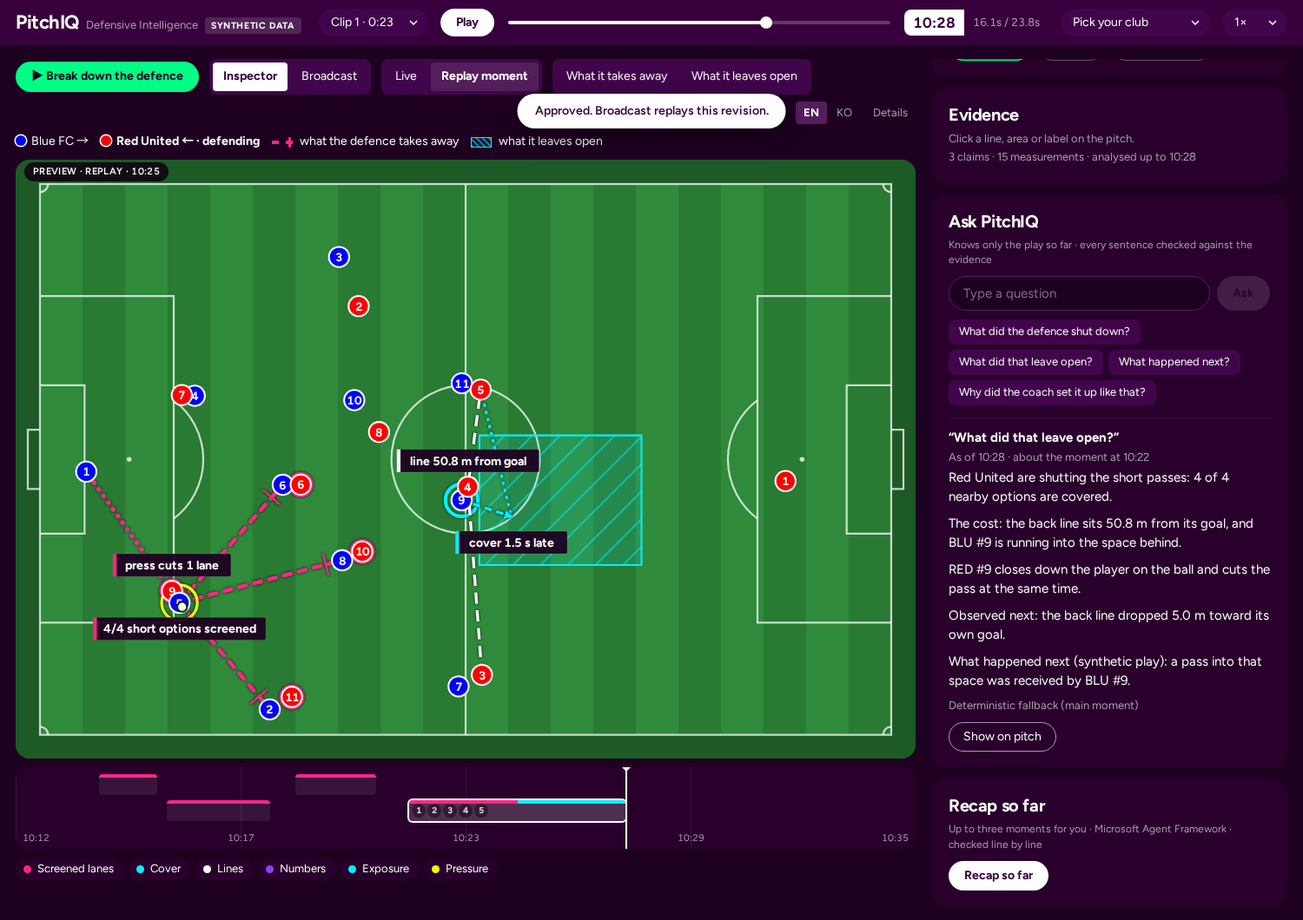
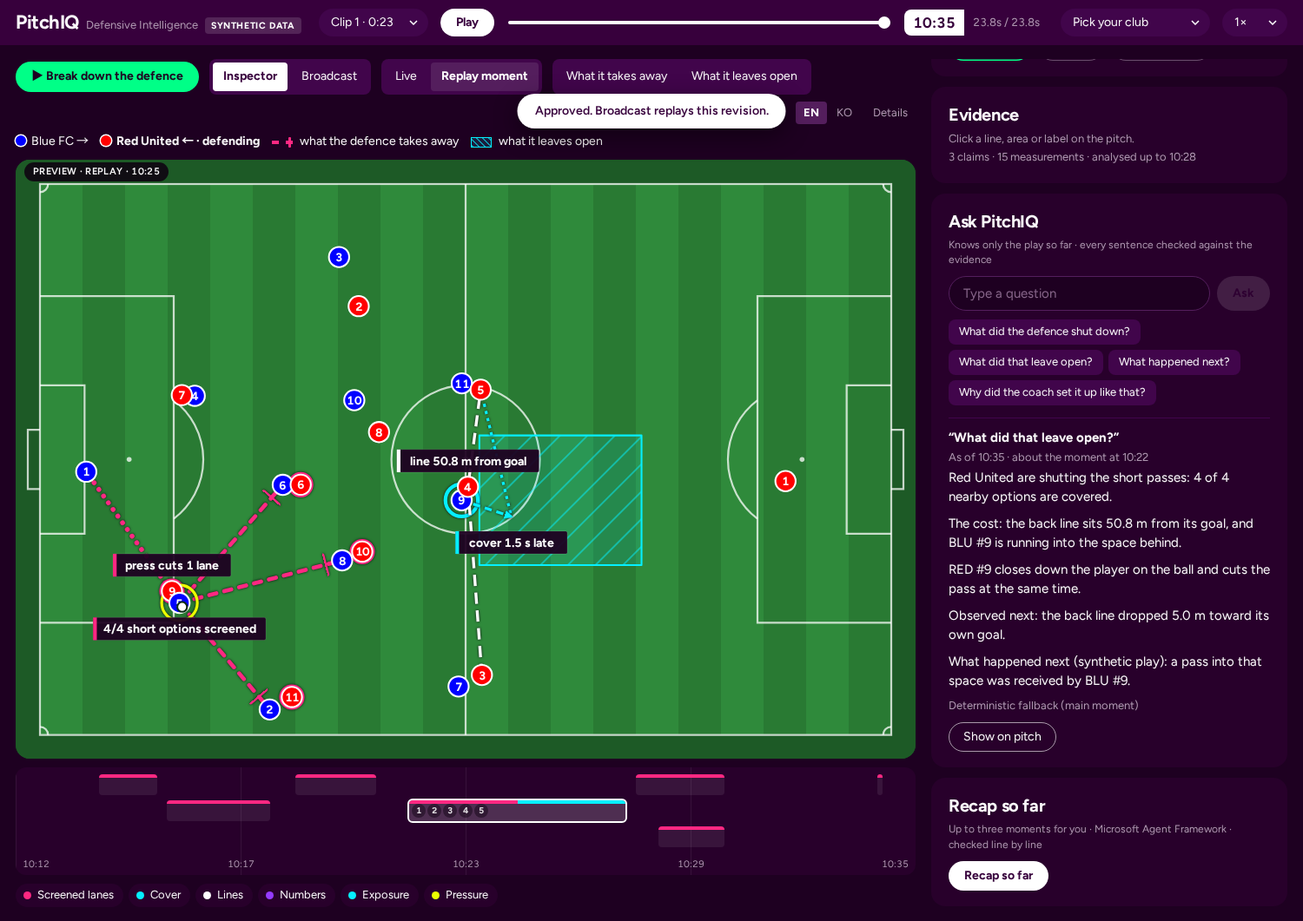
Play, Pause and the seek bar behave like a video player on the live link
Found by trying the deployed app: on the live link a seek's reply takes
0.3-1.2 s while the analysis is rebuilt.
- The seek bar stays where it is let go until the seek is answered; frames
  still streaming in no longer pull it back to the playing position.
- Pause freezes the pitch on the paused frame, and a seek shows the frame at
  that time. The followed moment's replay is shown only when the clip ends.
- The client keeps the newest snapshot by (epoch, seq), so a late older one
  cannot flip the Play/Pause label; old-epoch frames are dropped.
- Frame, episode, evidence and overlay reads wait for a seek's rebuild under
  the session lock instead of answering 404 from a half-built analysis.

Tests 278 (seek lock, snapshot order); walkthrough 74/74 with Pause and
seek-bar checks.

diff --git a/frontend/src/App.tsx b/frontend/src/App.tsx
@@ -42,6 +42,7 @@ const OUTCOME_TEXT: Record<string, string> = {
 };
 
 const fmtClock = (t: number, t0: number) => `${(t - t0).toFixed(1)}s`;
+const SEEK_KEYS = new Set(["ArrowLeft", "ArrowRight", "ArrowUp", "ArrowDown", "PageUp", "PageDown", "Home", "End"]);
 const FAN_QUIET = new Set(["numbers"]);  // fans get the lines and areas, not the analyst's count tags
 const matchClock = (t: number) => `${Math.floor(t / 60)}:${String(Math.floor(t % 60)).padStart(2, "0")}`;
 const matchClockTenths = (t: number) => `${Math.floor(t / 60)}:${(t % 60).toFixed(1).padStart(4, "0")}`;
@@ -146,6 +147,8 @@ export function App() {
   const [selEl, setSelEl] = useState<OverlayElement | null>(null);
   const [hidden, setHidden] = useState<Set<string>>(new Set());
   const [userPicked, setUserPicked] = useState(false);
+  const [scrub, setScrub] = useState<number | null>(null);  // where the viewer holds the seek bar, until the seek is answered
+  const lastSnap = useRef<[number, number]>([0, -1]);  // (epoch, seq) of the newest snapshot applied
   const [bd, setBd] = useState<Breakdown | null>(null);  // the guided breakdown on screen, if any
   const [bdStep, setBdStep] = useState(0);
   const [bdBusy, setBdBusy] = useState(false);
@@ -173,6 +176,11 @@ export function App() {
 
   const applySnapshot = useCallback((s: any) => {
     if (s.replay_id !== currentReplay.current) return;  // a response for a session we already left
+    // a control reply and the socket's snapshots can arrive in either order: keep the newest (epoch, seq), so a late
+    // older one never turns Pause back into Play or moves the clock back
+    const [e, q] = lastSnap.current;
+    if (s.analysis_epoch < e || (s.analysis_epoch === e && s.seq < q)) return;
+    lastSnap.current = [s.analysis_epoch, s.seq];
     setEpoch(s.analysis_epoch); setClock(s.clock_s); setPlaying(s.playing); setSpeed(s.speed);
     setRange([s.clip_start_s, s.clip_end_s]); setFrame(s.frame); setState(s.state); setLiveClaims(s.live_claims);
     setEpisodes(s.episodes);
@@ -193,6 +201,7 @@ export function App() {
     setBd(null); setBdStep(0); setIntro(true);
     setUserPicked(false); setView("live"); setAutoReplay(false); setFollowed(null); setOnlyFollowed(false); setSurface("inspector_preview"); setEpisodes([]); setSession(null);
     currentReplay.current = null;  // drop anything the previous session's socket still delivers
+    lastSnap.current = [0, -1]; setScrub(null);
     const connect = (s: Session) => {
       wsRef.current?.close();
       wsRef.current = openSocket(s, (m: WsMessage) => { retry = 0; onMessage(m); }, (ev) => {
@@ -237,6 +246,7 @@ export function App() {
   const onMessage = (m: WsMessage & { replay_id?: string }) => {
     if (m.replay_id && m.replay_id !== currentReplay.current) return;  // a late message from a previous session
     if (m.type === "state_snapshot") { applySnapshot(m.payload); return; }
+    if ((m.type === "tracking_frame" || m.type === "tactical_snapshot") && m.analysis_epoch < lastSnap.current[0]) return;
     if (m.type === "tracking_frame") {
       const f = ObservationFrameZ.safeParse(m.payload);
       if (!f.success) { setError("tracking frame failed contract validation"); return; }
@@ -337,6 +347,13 @@ export function App() {
       else setError(String(e));
     }
   };
+  // a seek from the bar: the pitch then shows the frame at that time (not the last moment's replay) until the next Play
+  const seekTo = async (t: number) => {
+    setIntro(false); exitBreakdown();
+    liveChosen.current = true; setView("live"); setSelRev(null); setAutoReplay(false);
+    await control("seek", t);
+    setScrub(null);
+  };
   const replayFromStart = async () => {
     if (!session || session.replay_id !== currentReplay.current) return;
     // back to the live desk, with no moments listed or selected, before the seek leaves: the rewound replay has not
@@ -426,11 +443,12 @@ export function App() {
   const liveExpired = overlay?.overlay.display_mode === "live" && view === "live" && surface === "inspector_preview"
     && clock > overlay.overlay.valid_until_s + 1e-6;
   const overlaySnap = liveExpired ? null : overlay?.overlay ?? null;
-  // a paused or finished replay never leaves an empty pitch: it shows the followed moment as analysed (Play returns
-  // to live). While playing, an expired live overlay is still not drawn on later frames.
+  // a finished replay never leaves an empty pitch: at the end of the clip it shows the followed moment as analysed
+  // (Play starts the clip again). Pause keeps the pitch on the paused frame, as any video player does. While playing,
+  // an expired live overlay is still not drawn on later frames.
   useEffect(() => {
     const ended = clock >= range[1] - 0.1;
-    if (playing && !ended) { liveChosen.current = false; return; }
+    if (!ended) { if (playing) liveChosen.current = false; return; }
     if (view !== "live" || surface !== "inspector_preview" || !liveExpired || liveChosen.current) return;
     setView("replay"); setSelRev(null); setAutoReplay(true);
   }, [playing, view, surface, liveExpired, clock, range]);
@@ -469,6 +487,7 @@ export function App() {
     ? (overlay?.episode_revision === selRev ? overlay.analyzed_through_s : null)
     : (ep && insight && insight.insight.evidence_hash === ep.evidence_hash ? ep.analyzed_until_s : null);
   const [t0, t1] = range;
+  const shownClock = scrub ?? clock;
   const lastCloud = health?.last_cloud_result;
   const statusLine = health ? (health.cloud_enabled
     ? `Narration: Foundry enabled · last call ${lastCloud?.last_call_succeeded == null ? "none yet"
@@ -505,12 +524,15 @@ export function App() {
           if (!playing && clock >= range[1] - 0.1) replayFromStart();  // at the end, Play starts the clip again
           else control(playing ? "pause" : "play");
         }}>{playing ? "Pause" : "Play"}</button>
-        <input type="range" min={t0} max={t1} step={0.2} value={clock} aria-label="Seek" disabled={!session}
-          style={{ "--p": `${((clock - t0) / Math.max(t1 - t0, 1e-6)) * 100}%` } as CSSProperties}
-          onChange={(e) => setClock(parseFloat(e.target.value))}
-          onMouseUp={(e) => { setIntro(false); exitBreakdown(); control("seek", parseFloat((e.target as HTMLInputElement).value)); }}
-          onKeyUp={(e) => { setIntro(false); exitBreakdown(); control("seek", parseFloat((e.target as HTMLInputElement).value)); }} />
-        <span className="clock" title="match clock · time into the clip"><b>{matchClock(clock)}</b><span>{fmtClock(clock, t0)} / {fmtClock(t1, t0)}{details ? ` · epoch ${epoch}` : ""}</span></span>
+        {/* the bar stays where the viewer put it until the seek is answered: frames still streaming in would
+            otherwise pull it back to the playing position */}
+        <input type="range" min={t0} max={t1} step={0.2} value={shownClock} aria-label="Seek" disabled={!session}
+          style={{ "--p": `${((shownClock - t0) / Math.max(t1 - t0, 1e-6)) * 100}%` } as CSSProperties}
+          onChange={(e) => setScrub(parseFloat(e.target.value))}
+          onPointerUp={(e) => seekTo(parseFloat((e.target as HTMLInputElement).value))}
+          onPointerCancel={() => setScrub(null)}
+          onKeyUp={(e) => { if (SEEK_KEYS.has(e.key)) seekTo(parseFloat((e.target as HTMLInputElement).value)); }} />
+        <span className="clock" title="match clock · time into the clip"><b>{matchClock(shownClock)}</b><span>{fmtClock(shownClock, t0)} / {fmtClock(t1, t0)}{details ? ` · epoch ${epoch}` : ""}</span></span>
         <select value={myClub} onChange={(e) => setMyClub(e.target.value)} aria-label="My club">
           <option value="">Pick your club</option>
           {teams.map((tm: any) => <option key={tm.team_id} value={tm.team_id}>My club: {tm.display_name}</option>)}

diff --git a/backend/app/api/app.py b/backend/app/api/app.py
@@ -108,6 +108,13 @@ def _episodes(s: ReplaySession) -> list[dict]:
 
 
 def _snapshot(s: ReplaySession) -> dict:
+    # under the session lock, so (epoch, seq) orders snapshots the way the state changed: a client that gets the
+    # control reply and the socket's snapshot in either order keeps the newer one
+    with s.lock:
+        return _snapshot_locked(s)
+
+
+def _snapshot_locked(s: ReplaySession) -> dict:
     r = s.results[-1]
     return {"schema_version": "2.0", "replay_id": s.replay_id, "clip_id": s.clip.clip_id,
             "analysis_epoch": s.epoch, "seq": s.next_seq(), "clock_s": s.clock_s, "playing": s.playing,
@@ -252,22 +259,25 @@ def snapshot(rid: str, x_session_token: str | None = Header(default=None)) -> di
 @app.get("/api/replays/{rid}/frames/{frame_index}")
 def frame(rid: str, frame_index: int, x_session_token: str | None = Header(default=None)) -> dict:
     s = _session(rid, x_session_token)
-    if frame_index < 0 or frame_index > s.cursor_k:
-        raise HTTPException(404, "frame not observed yet at this cutoff")
-    return s.clip.frames[frame_index].model_dump(mode="json")
+    with s.lock:  # a seek rebuilds the analysis under this lock: wait for it instead of reading it half rebuilt
+        if frame_index < 0 or frame_index > s.cursor_k:
+            raise HTTPException(404, "frame not observed yet at this cutoff")
+        return s.clip.frames[frame_index].model_dump(mode="json")
 
 
 @app.get("/api/replays/{rid}/episodes")
 def episodes(rid: str, x_session_token: str | None = Header(default=None)) -> list[dict]:
     s = _session(rid, x_session_token)
-    return [p.episode.model_dump(mode="json") for revs in s.analyzer.packets.values() for p in revs[-1:]]
+    with s.lock:
+        return [p.episode.model_dump(mode="json") for revs in s.analyzer.packets.values() for p in revs[-1:]]
 
 
 @app.get("/api/replays/{rid}/evidence/{episode_id}")
 def evidence(rid: str, episode_id: str, revision: int | None = None,
              x_session_token: str | None = Header(default=None)) -> dict:
     s = _session(rid, x_session_token)
-    return _packet(s, episode_id, revision).model_dump(mode="json")
+    with s.lock:
+        return _packet(s, episode_id, revision).model_dump(mode="json")
 
 
 @app.get("/api/replays/{rid}/overlays")
@@ -279,6 +289,12 @@ def overlays(rid: str, episode_id: str, audience: Literal["fan", "analyst"] = "a
              revision: int | None = None,
              x_session_token: str | None = Header(default=None)) -> dict:
     s = _session(rid, x_session_token)
+    with s.lock:  # the whole overlay from one consistent analysis, never from one a seek is rebuilding
+        return _overlay(s, episode_id, audience, language, surface, focus, display_mode, revision)
+
+
+def _overlay(s: ReplaySession, episode_id: str, audience: str, language: str, surface: str, focus: str,
+             display_mode: str, revision: int | None) -> dict:
     pk = _packet(s, episode_id, revision)
     approved = None
     if surface == "broadcast":

diff --git a/evaluation/walkthrough/walkthrough.py b/evaluation/walkthrough/walkthrough.py
@@ -169,14 +169,13 @@ def main() -> int:
             else:
                 check("A live after the episode closed: the clip ended, the moment is shown as a replay",
                       "REPLAY" in badge and page.locator("svg.pitch .ov").count() > 0, badge)
-            if page.get_by_role("button", name="Pause", exact=True).count():
-                page.get_by_role("button", name="Pause", exact=True).click()
+            page.get_by_role("button", name="Play", exact=True).wait_for(timeout=30000)  # the clip has ended
             page.wait_for_function("document.querySelector('.badge')?.textContent.includes('REPLAY')", timeout=10000)
             try:  # the badge comes with the overlay; the replay frame it is drawn on arrives a moment later
                 page.wait_for_function("document.querySelectorAll('svg.pitch .ov').length > 0", timeout=10000)
             except Exception:
                 pass
-            check("paused or ended: the pitch shows the followed moment, not an empty pitch",
+            check("ended: the pitch shows the followed moment, not an empty pitch",
                   page.locator("svg.pitch .ov").count() > 0, page.locator(".badge").inner_text())
 
             page.locator("button", has_text="After (rev").click()
@@ -479,7 +478,26 @@ def main() -> int:
             page.get_by_role("button", name="Pause", exact=True).wait_for(timeout=10000)
             into = page.locator(".clock span").inner_text()
             check("Play at the end of a clip starts it again from the beginning", float(into.split("s")[0]) < 3.0, into)
+            page.wait_for_timeout(1500)
             page.get_by_role("button", name="Pause", exact=True).click()
+            page.get_by_role("button", name="Play", exact=True).wait_for(timeout=10000)
+            page.wait_for_timeout(1500)
+            badge = page.locator(".badge").first.inner_text()
+            check("Pause mid-clip keeps the pitch on the paused frame (no jump to an earlier moment)",
+                  "REPLAY" not in badge, badge)
+            # the seek bar stays where it is let go, and the pitch shows that time
+            bar = page.locator("input[aria-label=Seek]")
+            bb = bar.bounding_box()
+            y = bb["y"] + bb["height"] / 2
+            page.mouse.move(bb["x"] + bb["width"] * 0.2, y)
+            page.mouse.down()
+            page.mouse.move(bb["x"] + bb["width"] * 0.6, y, steps=6)
+            page.mouse.up()
+            page.wait_for_timeout(1500)
+            lo, hi, val = (float(bar.get_attribute("min")), float(bar.get_attribute("max")), float(bar.input_value()))
+            badge = page.locator(".badge").first.inner_text()
+            check("Seek bar: a drag lands where it is let go and the pitch shows that time",
+                  abs((val - lo) / (hi - lo) - 0.6) < 0.06 and "REPLAY" not in badge, f"{val:.1f} | {badge}")
 
             # a public link: switching clips frees the old replay, so 25 switches never fill the store
             for i in range(25):

diff --git a/backend/tests/test_v2_sessions.py b/backend/tests/test_v2_sessions.py
@@ -3,6 +3,7 @@ replays are dropped, and an evicted replay's socket closes with 4410 so the clie
 
 from __future__ import annotations
 
+import threading
 import time
 
 import pytest
@@ -118,6 +119,39 @@ def test_a_seek_to_the_end_while_playing_ends_the_replay_in_its_reply(client):
     snap = client.post(f"/api/replays/{rid}/control", json={"action": "seek", "value": end - 5, "expected_epoch": 3},
                        headers=H).json()
     assert snap["playing"] is True
+
+
+def test_reads_wait_for_a_seek_instead_of_seeing_a_half_rebuilt_analysis(client):
+    # a seek rebuilds the analysis under the session lock (about a second on the deployed replica); a frame, evidence
+    # or overlay request arriving meanwhile must wait for it, not answer 404 from the half-built state
+    rid, H = _create(client)
+    s = STORE.sessions[rid]
+    client.post(f"/api/replays/{rid}/control", json={"action": "seek", "value": s.clip.end_s, "expected_epoch": 1},
+                headers=H)
+    ep = next(iter(s.analyzer.packets))
+    done: dict[str, int] = {}
+    urls = {"frame": f"/api/replays/{rid}/frames/10", "evidence": f"/api/replays/{rid}/evidence/{ep}",
+            "overlay": f"/api/replays/{rid}/overlays?episode_id={ep}"}
+    with s.lock:  # stands in for a seek in progress
+        threads = [threading.Thread(target=lambda k=k, u=u: done.__setitem__(k, client.get(u, headers=H).status_code))
+                   for k, u in urls.items()]
+        for t in threads:
+            t.start()
+        time.sleep(0.5)
+        assert done == {}, "a read went ahead while the analysis was locked"
+    for t in threads:
+        t.join(10)
+    assert done == {"frame": 200, "evidence": 200, "overlay": 200}
+
+
+def test_snapshots_are_ordered_by_epoch_and_seq(client):
+    # the control reply and the socket's snapshots share one counter, so the client can drop the older one
+    rid, H = _create(client)
+    a = client.get(f"/api/replays/{rid}/snapshot", headers=H).json()
+    b = client.post(f"/api/replays/{rid}/control", json={"action": "pause", "expected_epoch": 1}, headers=H).json()
+    c = client.post(f"/api/replays/{rid}/control", json={"action": "seek", "value": a["clip_start_s"] + 3,
+                                                         "expected_epoch": 1}, headers=H).json()
+    assert (a["analysis_epoch"], a["seq"]) < (b["analysis_epoch"], b["seq"]) < (c["analysis_epoch"], c["seq"])
 
 
 def test_playback_keeps_wall_time_when_the_socket_syncs_often(client):

diff --git a/docs/evaluation.md b/docs/evaluation.md
@@ -32,8 +32,8 @@ In D, the variant named `main` is the trap, which is the counter-example.
 - Narration plans: 1510/1510 valid. The holdout runs deterministic narration only, with no model calls.
 
 **Tests and browser walkthrough** (2026-10-25):
-- `make test`: 276 passed on 2026-10-25 (226 before the MCP endpoint, the Recap workflow and personalisation; then the clip-end snapshot and replay clock tests; then the approved-revision broadcast, agent-changes, repeated-recap-lead, fan-caption, prompt-injection and telemetry tests; then the guided breakdown and seek-to-the-end tests).
-- Headless-browser walkthrough in offline mode: 72 passed, 0 failed, no browser console errors (62 before the guided breakdown and the Play-from-the-end checks). Against the public URL (Foundry on, image `sha-b3e6013`, 2026-10-26): 68 passed, 0 failed, no console errors, with the 4 checks of particular template sentences kept as information (58 of 58 on `sha-6c98218` before the breakdown). It includes Ask PitchIQ and Recap checks, the five steps of the guided breakdown, Studio details, My club and Follow a player, and 25 clip switches that leave at most 2 replays open. The offline run's `report.json` and screenshots are in `docs/walkthrough/`; the public-URL run is logged in `docs/foundry_live/MEASUREMENTS.md` (its report was not committed).
+- `make test`: 278 passed on 2026-10-26 (226 before the MCP endpoint, the Recap workflow and personalisation; then the clip-end snapshot and replay clock tests; then the approved-revision broadcast, agent-changes, repeated-recap-lead, fan-caption, prompt-injection and telemetry tests; then the guided breakdown and seek-to-the-end tests; then the seek-lock and snapshot-order tests).
+- Headless-browser walkthrough in offline mode (2026-10-26): 74 passed, 0 failed, no browser console errors (62 before the guided breakdown, the Play-from-the-end, Pause and seek-bar checks). Against the public URL (Foundry on, image `sha-b3e6013`, 2026-10-26): 68 passed, 0 failed, no console errors, with the 4 checks of particular template sentences kept as information (58 of 58 on `sha-6c98218` before the breakdown). It includes Ask PitchIQ and Recap checks, the five steps of the guided breakdown, Studio details, My club and Follow a player, and 25 clip switches that leave at most 2 replays open. The offline run's `report.json` and screenshots are in `docs/walkthrough/`; the public-URL run is logged in `docs/foundry_live/MEASUREMENTS.md` (its report was not committed).
 
 **Live Foundry agents** (2026-10-24) were measured separately, with the smoke runner (`python -m app.agents.smoke`) and in the real UI. The full log is in [`docs/foundry_live/MEASUREMENTS.md`](foundry_live/MEASUREMENTS.md). Costs are estimates from the reported tokens at $0.25 per 1M input and $2.00 per 1M output tokens, not billing records.
 - Analyst → Producer, `gpt-5-mini` with reasoning effort `minimal`: 8/8 validated (1 after a repair) over 7 clips. 4.6–7.7 s end to end, 2.3k–4.4k input and 0.2k–0.3k output tokens, about 0.1–0.2 US cent per run.
@@ -144,7 +144,7 @@ When bypassed pressers drop into the midfield line, the line grouping can abstai
 - Browser walkthrough (headless Chromium on an HPC compute node, 2026-10-22, generator 0.5.0): 49 passed, 0 failed, no console errors.
   - The first run that night timed out once: 17 checks passed, then a 30 s wait for the negative clip's episode, with the node at load 67. The rerun with the same code and data passed 49/49.
   - It covers families A to G and their counter-examples.
-- Browser walkthrough on 2026-10-24: 51/51 before the session-limit changes. During those changes one run had 52/53: a browser console 404 from a replay that had just been freed while a request was still in flight. The client now frees a replay it leaves 3 s later, and the 19:05Z run passed 53/53. Later runs that day added the Studio, personalisation and Recap checks (59/59), then a check over a slow link (60/60): a first run against the deployed app found that over a slow link (the deployed app from the development machine; 400 ms per request in the new check) the client dropped every live overlay answer because a newer request was always in flight, so the live pitch drew nothing. The old build fails the new check. The client now draws each answer newer than the one on screen. The same session also showed the replay clock running about 1.8x fast while a browser was connected (each sync rounded the clock up to the nearest frame); it now advances to the last frame at or before the clock, with a test. On 10-25 the walkthrough against the deployed app found a third slow-link problem: Play pressed right after a clip switch was dropped while the new replay was still being created; the controls now stay disabled until it exists (check 61, which the previous build fails); later that evening the run against the deployed app with the guided breakdown found two more: Play at the end of a clip rewound while requests for the moment it had shown were still on their way (404s in the console, and an evidence 404 could show the error banner), and over a slow link a seek to the end while playing could leave Pause on an ended clip, because the socket's clip-end snapshot arrived before the seek's reply, which still said playing. The client now clears its moments before rewinding, a seek to the end ends the replay in its own reply (with a test), and a slow-link check covers the rewind; the screenshots and `report.json` in `docs/walkthrough/` come from the latest run, and the README hero image is a fixed crop of an earlier `03_replay.png` (`docs/images/`).
+- Browser walkthrough on 2026-10-24: 51/51 before the session-limit changes. During those changes one run had 52/53: a browser console 404 from a replay that had just been freed while a request was still in flight. The client now frees a replay it leaves 3 s later, and the 19:05Z run passed 53/53. Later runs that day added the Studio, personalisation and Recap checks (59/59), then a check over a slow link (60/60): a first run against the deployed app found that over a slow link (the deployed app from the development machine; 400 ms per request in the new check) the client dropped every live overlay answer because a newer request was always in flight, so the live pitch drew nothing. The old build fails the new check. The client now draws each answer newer than the one on screen. The same session also showed the replay clock running about 1.8x fast while a browser was connected (each sync rounded the clock up to the nearest frame); it now advances to the last frame at or before the clock, with a test. On 10-25 the walkthrough against the deployed app found a third slow-link problem: Play pressed right after a clip switch was dropped while the new replay was still being created; the controls now stay disabled until it exists (check 61, which the previous build fails); later that evening the run against the deployed app with the guided breakdown found two more: Play at the end of a clip rewound while requests for the moment it had shown were still on their way (404s in the console, and an evidence 404 could show the error banner), and over a slow link a seek to the end while playing could leave Pause on an ended clip, because the socket's clip-end snapshot arrived before the seek's reply, which still said playing. The client now clears its moments before rewinding, a seek to the end ends the replay in its own reply (with a test), and a slow-link check covers the rewind. On 10-26 a user trying the deployed app found Play, Pause and the seek bar unreliable. On the live link a seek's reply takes 0.3-1.2 s (the analysis is rebuilt on the 0.5 vCPU replica), and frames still streaming in pulled a dragged bar back to the playing position; a pause or a seek showed the last moment's replay instead of the frame where the viewer stopped; a late, older snapshot could flip the Play/Pause label; and a frame, evidence or overlay request arriving during the rebuild could answer 404. The bar now stays where it is let go until the seek is answered, Pause freezes the pitch (the moment's replay is shown only when the clip ends), the client keeps the newest snapshot by (epoch, seq), and those reads wait for the rebuild (tests). Two walkthrough checks cover Pause and the seek bar; the screenshots and `report.json` in `docs/walkthrough/` come from the latest run, and the README hero image is a fixed crop of an earlier `03_replay.png` (`docs/images/`).
 - Seed check for every variant (seeds 100-119, generator 0.2, analysed by the real pipeline, separate from the demo seed 7):
   - A main: space behind claimed and used 19/20.
   - A cover: space behind never claimed and never used (0/20). But 6/20 still show a complete trade-off, because a centre-back is free during the build-up.

diff --git a/README.md b/README.md
@@ -174,8 +174,8 @@ Also built: an MCP server (Model Context Protocol, an open standard) that expose
 | Robustness check: counter-examples | Wrong emphasis in 1 of 72 (target 0). | 2026-10-23 | Same report |
 | Robustness check: abstention | On the 72 plays where exposure was expected, the story stayed partial or unmatched in 1. Exposed-claim recall was lowest in two of the six set-ups: 18 of 24 and 17 of 24 designed exposed claims (two per play, 12 plays each). | 2026-10-23 | Same report |
 | Analysis latency | p50 7.9 ms, p95 9.4 ms per 5 Hz step (target: p95 under 200 ms) | 2026-10-23 | 12,669 frames, single process, CPU on an HPC compute node, during the holdout run |
-| Tests | 276 passed | 2026-10-25 | `make test` |
-| Browser walkthrough | 72 of 72 checks passed, no browser console errors | 2026-10-25 | Headless Chromium drives the real UI in offline mode (`make walkthrough`), including the five steps of the guided breakdown and three checks over a slow link (400 ms per request). See `docs/walkthrough/report.json` and the screenshots |
+| Tests | 278 passed | 2026-10-26 | `make test` |
+| Browser walkthrough | 74 of 74 checks passed, no browser console errors | 2026-10-26 | Headless Chromium drives the real UI in offline mode (`make walkthrough`), including the five steps of the guided breakdown, Pause and seek-bar checks, and three checks over a slow link (400 ms per request). See `docs/walkthrough/report.json` and the screenshots |
 | Deployed app | Managed identity reached Foundry: an Ask answered in 5.9 s with 2 tool calls, a Recap in 8.2 s, both validated; `/mcp` listed its 5 tools over HTTPS; a 1× replay streamed over the WebSocket. | 2026-10-24 | Calls from the development machine to the public URL. Log: [`docs/foundry_live/MEASUREMENTS.md`](docs/foundry_live/MEASUREMENTS.md) |
 | Browser walkthrough on the public URL | 68 checks passed, 0 failed, no console errors. With Foundry on, the 4 checks of particular template sentences are kept as information, because the agents may choose other validated sentences. | 2026-10-26 | The same walkthrough with `--base-url` against the live app (image `sha-b3e6013`, with the guided breakdown). Same log |
 
